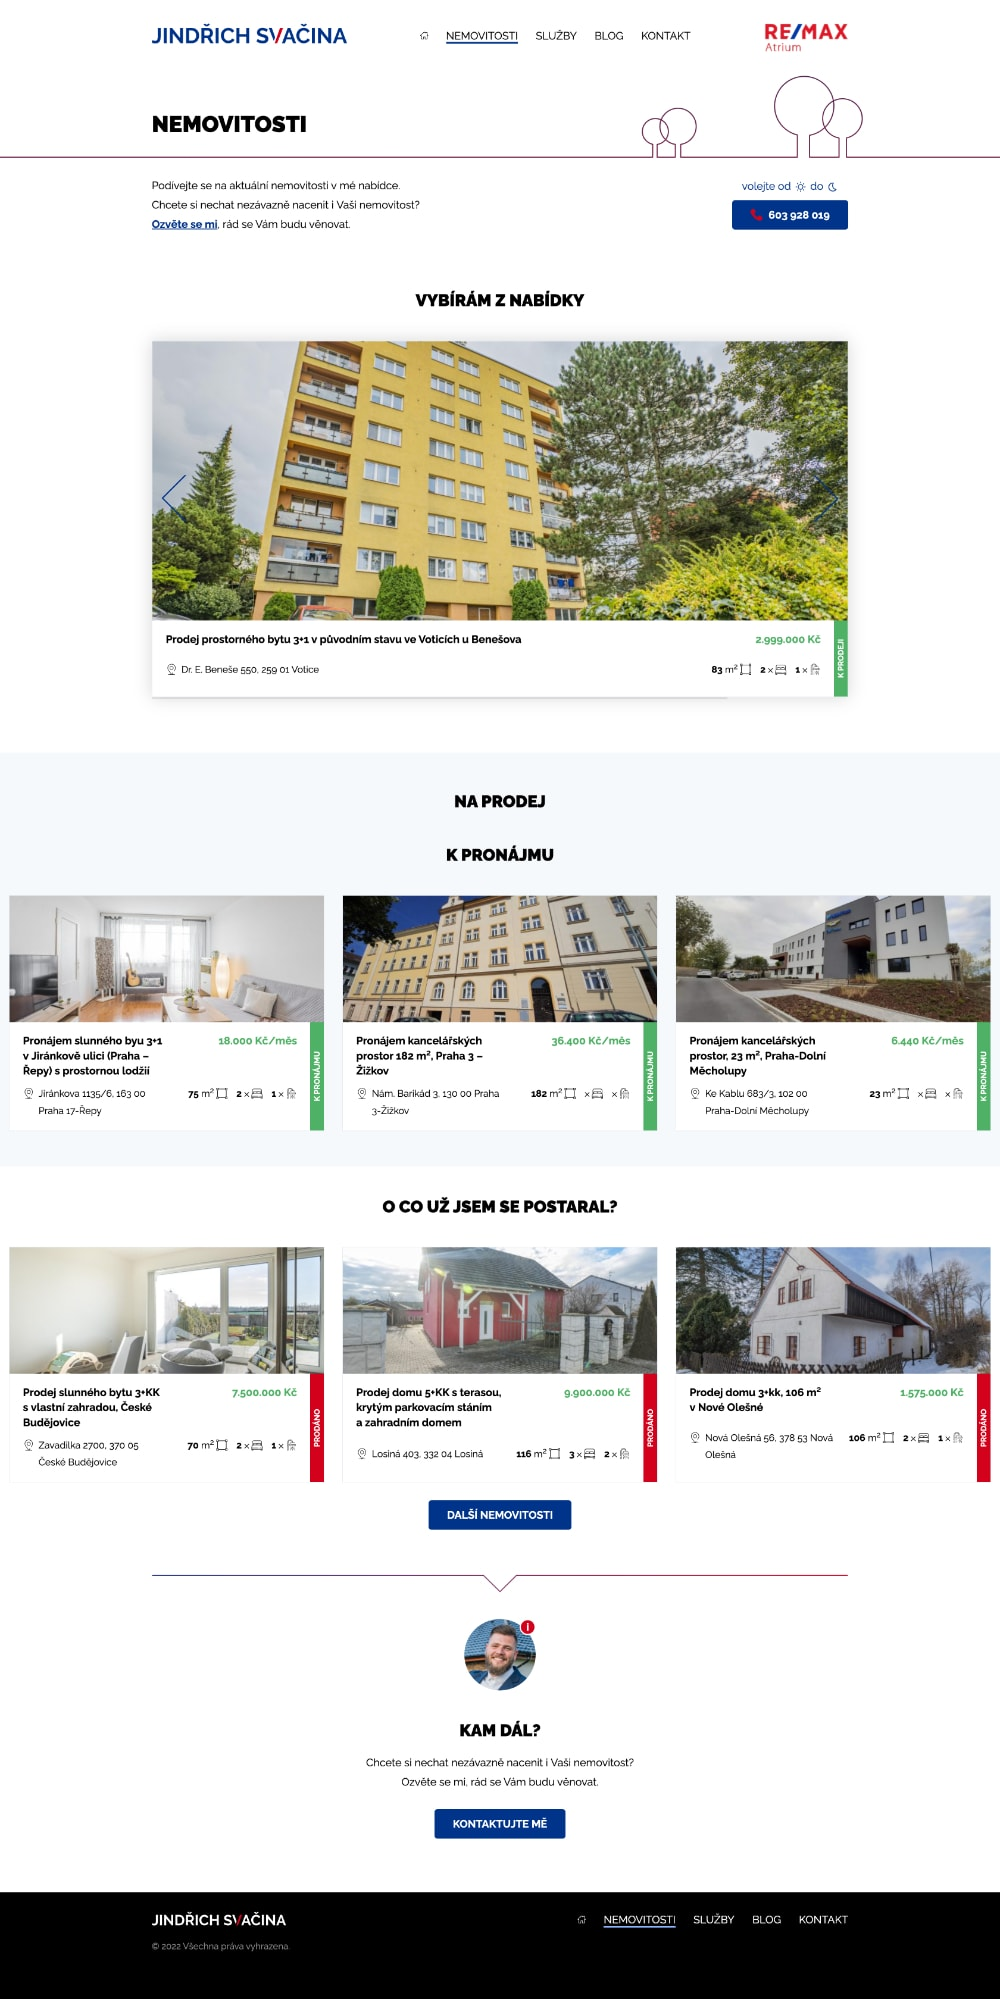
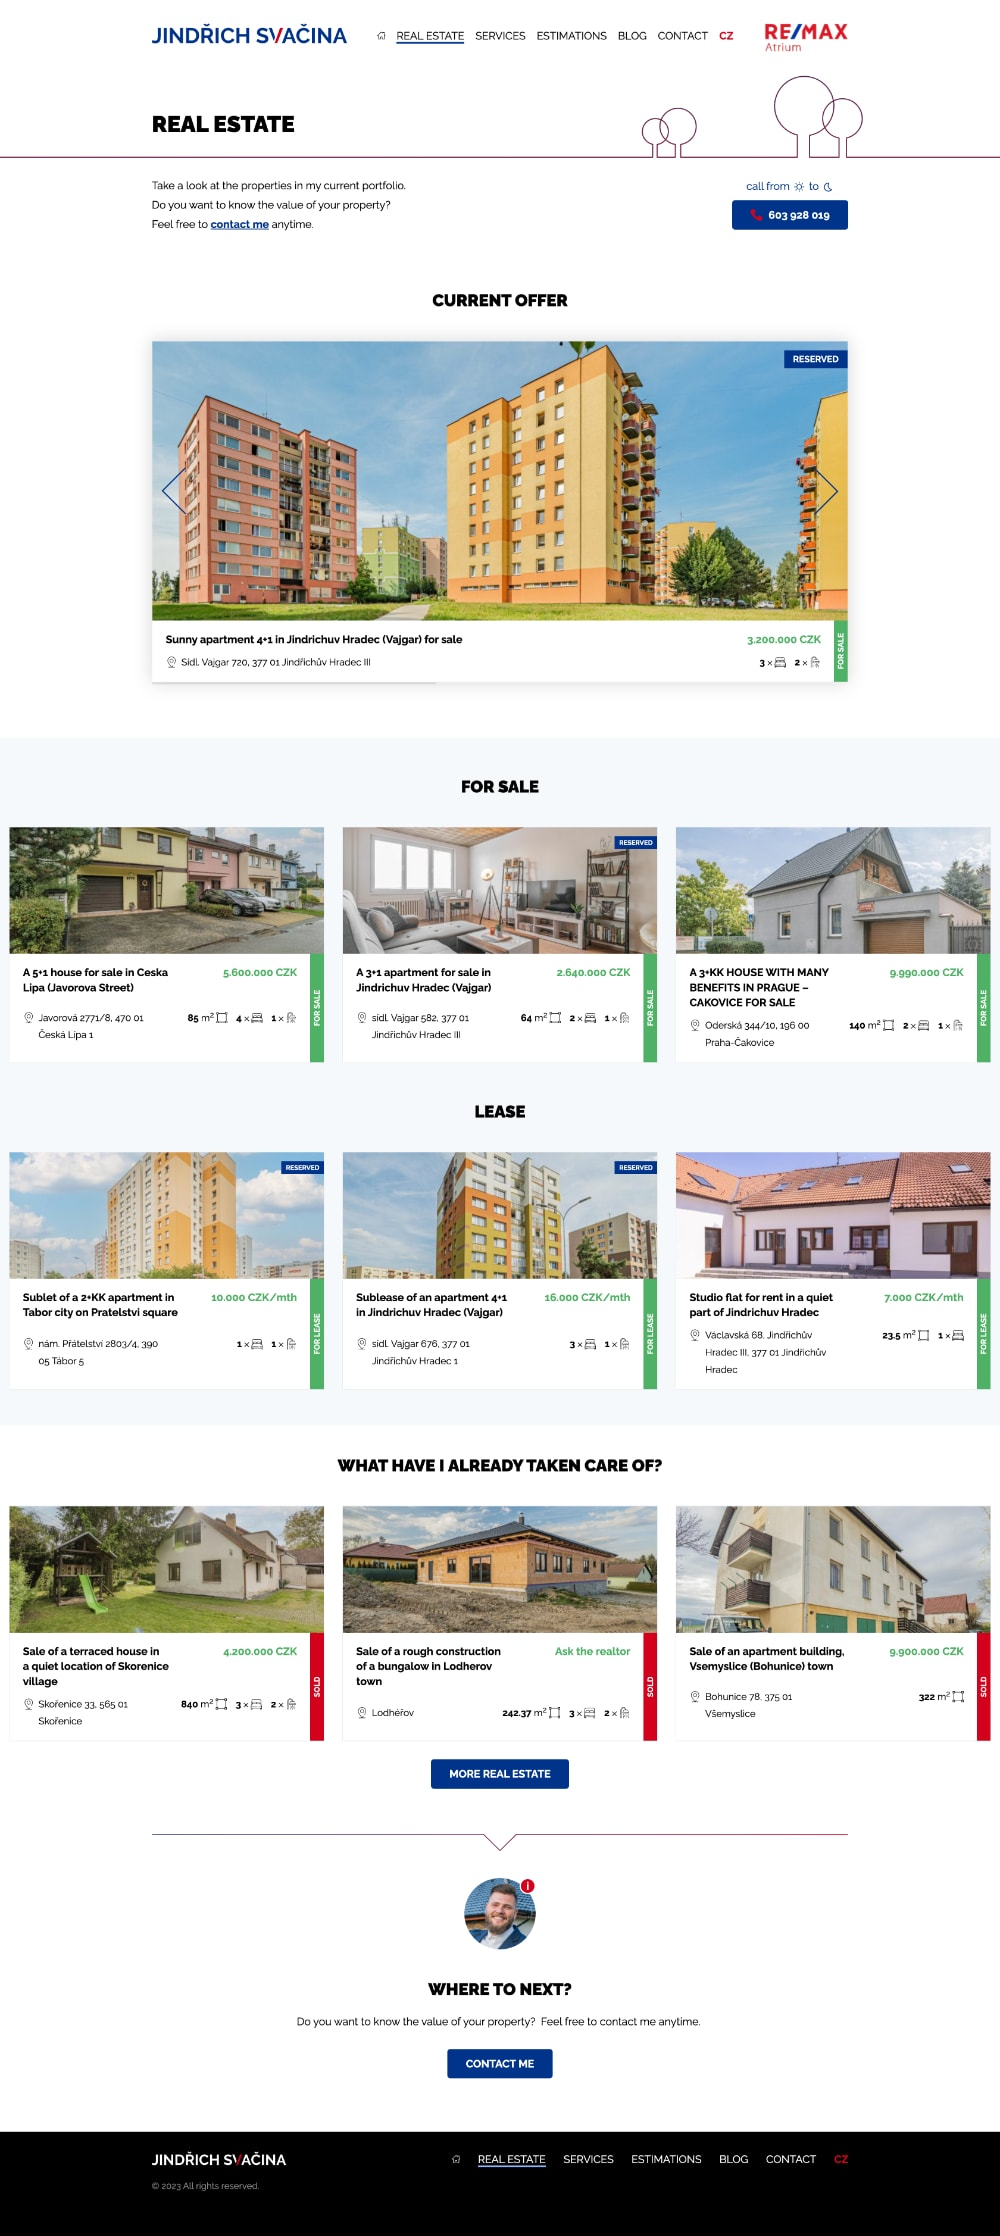
UPDATE - Pi-hole official, FOSS, Svacina EN

diff --git a/src/projects/2022-lcars/lcars.md b/src/projects/2022-lcars/lcars.md
@@ -1,12 +1,12 @@
 ---
-title: Pi-hole LCARS Theme
-tags: ["CSS", "UI design"]
+title: New official Pi-hole LCARS Theme
+tags: ["CSS", "UI design", "FOSS"]
 slug: lcars
 year: 2023
 url:
-- title: Source code (NEW VERSION 2023)
+- title: Source code (Star Trek Picard)
   link: https://github.com/MichalSvatos/pi-hole-star-trek-picard
-- title: Source code
+- title: Source code (Star Trek The Next Generation)
   link: https://github.com/MichalSvatos/pi-hole-lcars-next-gen
 - title: Pi-hole - Network-wide ad blocking
   link: https://pi-hole.net/
@@ -15,9 +15,13 @@ featured: images/featured.png
 collectionThumbs: ["images/collection/thumbs/picard-hp.png", "images/collection/thumbs/picard-system.png", "images/collection/thumbs/hp.png", "images/collection/thumbs/settings.png", "images/collection/thumbs/group.png"]
 collection: ["images/collection/picard-hp.png", "images/collection/picard-system.png", "images/collection/hp.png", "images/collection/settings.png", "images/collection/group.png"]
 statusText: under active development
-status: active 
-owner: Personal project
+status: active
+owner: Personal FOSS project
 ---
+As a fan, **I coded and designed new UIs** for the **open source project Pi-hole** based on the Start Trek's computer interface (LCARS).
 
-### Pi-hole LCARS Next Generation Theme
-As a Start Trek fan, **I coded and designed UI** based on the computer interface (LCARS) of the popular franchise for the **open source project Pi-hole**.
+##### Star Trek: The Next Generation Theme
+This theme was my first attempt to make more sophisticated and accurate version of the LCARS UI. It's based on the original blue LCARS theme, created by RD Webdesign.
+
+##### Star Trek Picard Theme
+In September 2023 I released this new, completely from scratch written, animated version inspired by Picard TV show. **With the help of awesome developers of Pi-hole, it became a new additional official theme**. Thank you, guys. I'm honored 🖖

diff --git a/src/projects/2021-svacina/svacina.md b/src/projects/2021-svacina/svacina.md
@@ -5,12 +5,12 @@ slug: reality-svacina
 year: 2021
 url:
 - title: reality-svacina.cz
-  link: https://reality-svacina.cz
+  link: https://reality-svacina.cz/en/
 timeperiod: present
 featured: images/featured.png
 collectionThumbs: ["images/collection/thumbs/web1.jpg", "images/collection/thumbs/web2.jpg"]
 collection: ["images/collection/web1.jpg", "images/collection/web2.jpg"]
-statusText: under active development, currently preparing implementation of the English version
+statusText: active
 status: active
 owner: Realtor Jindřich Svačina
 ---
@@ -24,5 +24,7 @@ owner: Realtor Jindřich Svačina
 - Custom post types
 - Administration of properties and their characteristics
 - Blog
+- Polylang implementation
+- Estimation price form
 
 

diff --git a/src/projects/2020-cihelna/cihelna.md b/src/projects/2020-cihelna/cihelna.md
@@ -19,8 +19,8 @@ owner: Cihelna Concept Store, Prague
 <br><br>
 ##### Features
 - Advanced Custom Fields
-- MySQL database
 - Custom post types
+- MySQL database
 - Artists administration
 - Artworks administration
 - Collections administration

diff --git a/src/projects/2020-helpforitaly/helpforitaly.md b/src/projects/2020-helpforitaly/helpforitaly.md
@@ -1,6 +1,6 @@
 ---
 title: Help For Italy #COVID19
-tags: ["HTML", "CSS/LESS", "JavaScript", "Figma"]
+tags: ["HTML", "CSS/LESS", "JavaScript", "Figma", "FOSS"]
 slug: helpforitaly
 year: 2020
 url:

diff --git a/src/projects/2022-mrshareman/mrshareman.md b/src/projects/2022-mrshareman/mrshareman.md
@@ -1,6 +1,6 @@
 ---
 title: Mr. Shareman
-tags: ["JavaScript", "CSS", "Design"]
+tags: ["JavaScript", "CSS", "Design", "FOSS"]
 slug: mrshareman
 year: 2022
 url:
